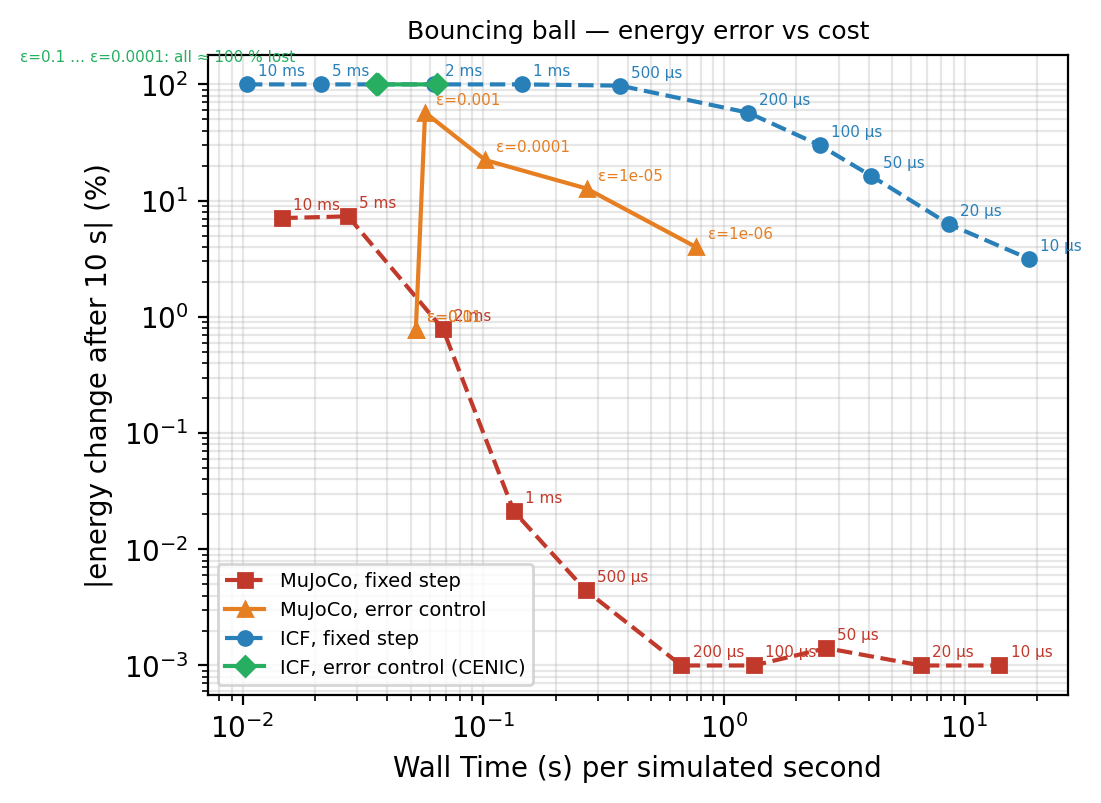
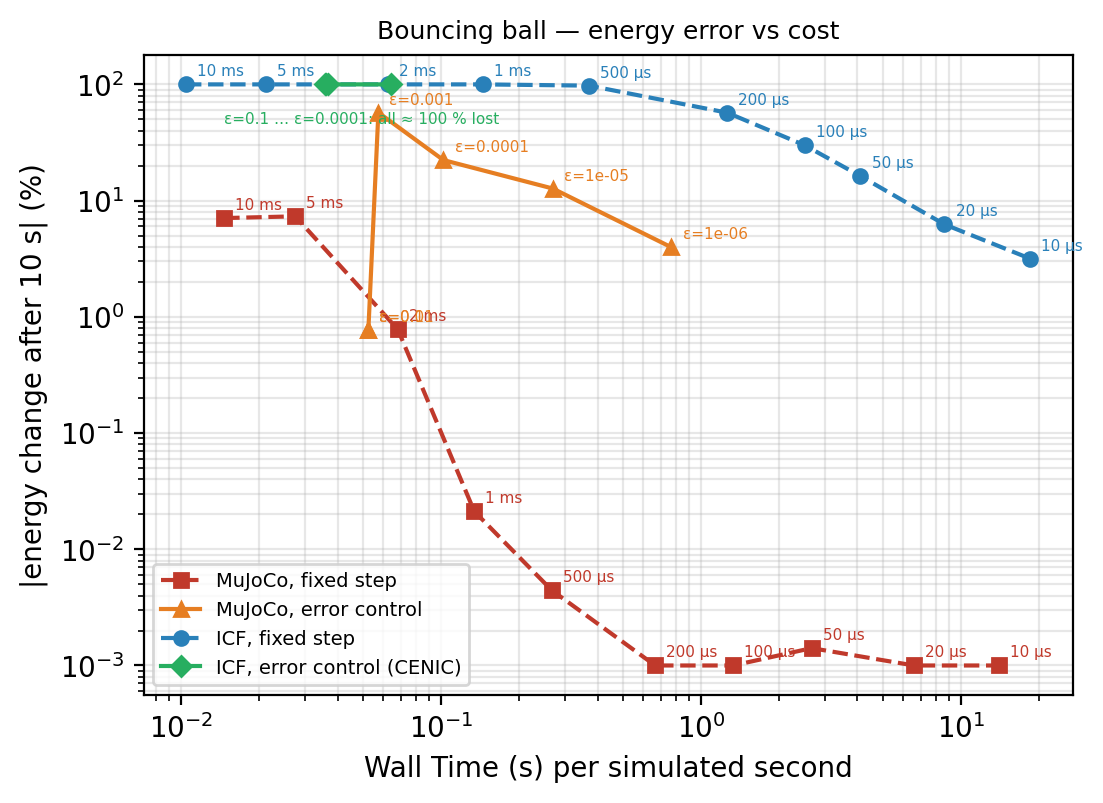
Determinism probe result; consistency bench carries its own floor row
Neither contact solver is bit-reproducible on clutter (the ball is):
GPU reduction order in the contact solve differs run to run and the pile
amplifies it to mm (soft, ICF) and cm (hard, both) within 0.5 s. The
consistency bench therefore runs the reference step as a fixed row --
the reference restarted against itself -- drawn as the instrument's
floor, below which a deviation is noise. PART1.md gains a Determinism
section.

diff --git a/scripts/bench/part1_plots.py b/scripts/bench/part1_plots.py
@@ -679,7 +679,7 @@ def ball_workprecision() -> None:
                 f"{first} … {last}: all ≈ 100 % lost",
                 (x, y),
                 textcoords="offset points",
-                xytext=({"icf-adaptive": -150}.get(arm, 4), {"mujoco": 10, "mujoco-adaptive": -12, "icf-adaptive": 8}.get(arm, 0)),
+                xytext=({"icf-adaptive": -60}.get(arm, 4), {"mujoco": 10, "mujoco-adaptive": -12, "icf-adaptive": -14}.get(arm, 0)),
                 fontsize=5.5,
                 color=STYLE[arm]["color"],
             )

diff --git a/scripts/bench/benchmarks/part1_consistency.py b/scripts/bench/benchmarks/part1_consistency.py
@@ -40,7 +40,11 @@ BOUNDARY_S = 0.01
 N_PIECES = 20
 T_START = 0.2  # skip the initial free fall
 REF_DT = 1e-4
-FIXED_DTS = [1e-2, 5e-3, 2e-3, 1e-3, 5e-4]
+# The last fixed dt IS the reference step: that row is the reference restarted
+# against itself and measures the floor of the instrument (the solvers are
+# not bit-reproducible on clutter, scripts/bench/probe_determinism.py), below
+# which a deviation is noise, not step error.
+FIXED_DTS = [1e-2, 5e-3, 2e-3, 1e-3, 5e-4, 1e-4]
 ACCURACIES = [1e-1, 1e-2, 1e-3, 1e-4, 1e-5]
 
 

diff --git a/scripts/bench/results/tables/determinism_probe.md b/scripts/bench/results/tables/determinism_probe.md
@@ -1,0 +1,21 @@
+# Run-to-run determinism (scripts/bench/probe_determinism.py)
+
+Two identical arms on the same model from the same initial state, 8 worlds, 1 s; max |Δx| over bodies between the two runs, every 0.1 s. A deterministic solver gives 0.
+
+```
+ball          icf              max |dx| after 1 s: 0.00e+00 m   (every 0.1 s: 0.0e+00 0.0e+00 0.0e+00 0.0e+00 0.0e+00 0.0e+00 0.0e+00 0.0e+00 0.0e+00 0.0e+00)
+ball          mujoco           max |dx| after 1 s: 0.00e+00 m   (every 0.1 s: 0.0e+00 0.0e+00 0.0e+00 0.0e+00 0.0e+00 0.0e+00 0.0e+00 0.0e+00 0.0e+00 0.0e+00)
+ball          icf-adaptive     max |dx| after 1 s: 0.00e+00 m   (every 0.1 s: 0.0e+00 0.0e+00 0.0e+00 0.0e+00 0.0e+00 0.0e+00 0.0e+00 0.0e+00 0.0e+00 0.0e+00)
+ball          mujoco-adaptive  max |dx| after 1 s: 0.00e+00 m   (every 0.1 s: 0.0e+00 0.0e+00 0.0e+00 0.0e+00 0.0e+00 0.0e+00 0.0e+00 0.0e+00 0.0e+00 0.0e+00)
+soft-clutter  icf              max |dx| after 1 s: 2.38e-02 m   (every 0.1 s: 3.0e-08 7.2e-04 2.2e-03 6.4e-03 7.7e-03 2.3e-02 2.6e-02 2.6e-02 2.4e-02 2.4e-02)
+soft-clutter  mujoco           max |dx| after 1 s: 2.68e-06 m   (every 0.1 s: 0.0e+00 7.5e-09 7.5e-08 1.9e-07 3.3e-07 3.1e-07 7.2e-07 1.2e-06 1.9e-06 2.7e-06)
+soft-clutter  icf-adaptive     max |dx| after 1 s: 3.65e-02 m   (every 0.1 s: 0.0e+00 8.2e-04 3.4e-03 2.0e-02 4.2e-02 4.3e-02 4.2e-02 4.0e-02 3.9e-02 3.7e-02)
+soft-clutter  mujoco-adaptive  max |dx| after 1 s: 4.23e-04 m   (every 0.1 s: 0.0e+00 1.5e-08 2.6e-07 1.0e-06 2.3e-06 1.8e-06 5.8e-05 1.2e-04 1.3e-04 4.2e-04)
+hard-clutter  icf              max |dx| after 1 s: 1.50e-01 m   (every 0.1 s: 1.5e-08 9.4e-03 7.8e-02 1.0e-01 1.1e-01 1.4e-01 1.4e-01 1.5e-01 1.5e-01 1.5e-01)
+hard-clutter  mujoco           max |dx| after 1 s: 9.39e-02 m   (every 0.1 s: 0.0e+00 1.2e-03 1.4e-02 4.4e-02 5.9e-02 6.6e-02 6.5e-02 8.4e-02 9.3e-02 9.4e-02)
+hard-clutter  icf-adaptive     max |dx| after 1 s: 1.12e-01 m   (every 0.1 s: 0.0e+00 5.9e-03 3.9e-02 5.7e-02 1.0e-01 1.1e-01 1.1e-01 1.1e-01 1.1e-01 1.1e-01)
+hard-clutter  mujoco-adaptive  max |dx| after 1 s: 7.59e-02 m   (every 0.1 s: 0.0e+00 6.3e-06 5.4e-03 2.2e-02 4.1e-02 4.5e-02 4.9e-02 5.8e-02 6.7e-02 7.6e-02)
+NOT bit-reproducible
+```
+
+Reading: the ball (one body) is bit-reproducible on every arm; both contact solvers are not on clutter — the order of the GPU reductions in the contact solve differs run to run, and the pile amplifies the difference to millimetres within 0.3 s on soft clutter (ICF; MuJoCo stays at micrometres there) and to centimetres within 0.5 s on hard clutter (both). Consequences: (i) a restarted-window comparison against a reference (part1_consistency.py) has a floor equal to this noise — the reference restarted against itself is now a row of that bench and is drawn as the floor; (ii) two training runs with the same seed are not the same run on either backend under clutter contact.

diff --git a/scripts/bench/results/PART1.md b/scripts/bench/results/PART1.md
@@ -404,6 +404,17 @@ the model's m·g/k (1 = the model), the axis of Fig. 18 in the ICF paper.
   floors where fixed 1 ms does — tighter tolerance buys back stiffness only
   as far as the steps it drives the solver to.
 
+### Determinism (`tables/determinism_probe.md`)
+
+Two identical arms from the same state: the ball reproduces bit for bit on
+every arm; on clutter neither contact solver does — GPU reduction order in
+the contact solve differs run to run and the pile amplifies it, to
+millimetres within 0.3 s on soft clutter for ICF (micrometres for MuJoCo)
+and to centimetres within 0.5 s on hard clutter for both. Two training runs
+with the same seed are therefore not the same run under clutter contact on
+either backend, and any comparison against a reference trajectory has this
+noise as its floor.
+
 ### Momentum (`tables/momentum_probe.md`)
 
 Two spheres collide head-on with gravity off: every arm conserves the pair's
@@ -423,15 +434,13 @@ and the artifact rows). The reference carries its own error and the 20-body
 pile is chaotic, so the ~1 mm floor at the tight end is the reference's
 uncertainty, not the solvers'.
 
-_Validity (2026-08-29): the bench's restart oracle — a fixed run at the
-reference step, restarted from the reference, must reproduce it — FAILS on
-hard clutter (max deviation 8 mm after 0.1 s for both backends), so on that
-scene the measured deviation floor is the solvers' own run-to-run noise
-amplified by the pile, and only the coarse end of the hard-clutter panel
-(deviations well above ~8 mm) is a step-size measurement. The determinism
-probe (`probe_determinism.py`) and the soft-clutter/ball oracles are
-running; the hard-clutter numbers below stand only where they exceed the
-oracle's floor._
+_Floor: the reference restarted against itself (the δt = 0.1 ms row,
+hollow marker and dotted line) is the instrument's floor — the solvers'
+run-to-run noise amplified over the window (`tables/determinism_probe.md`).
+A deviation at or below it is noise, not step error; on hard clutter that
+floor is millimetres and only the coarse end of the panel is a step-size
+measurement. Both panels are being regenerated with the floor rows on an
+idle GPU; the numbers below are from the first run._
 
 * Hard clutter, fixed step: both solvers converge at about O(δt^0.65) over
   the ladder (ICF 21 mm at 10 ms → 3.0 mm at 0.5 ms; MuJoCo 8.8 → 1.3 mm),
